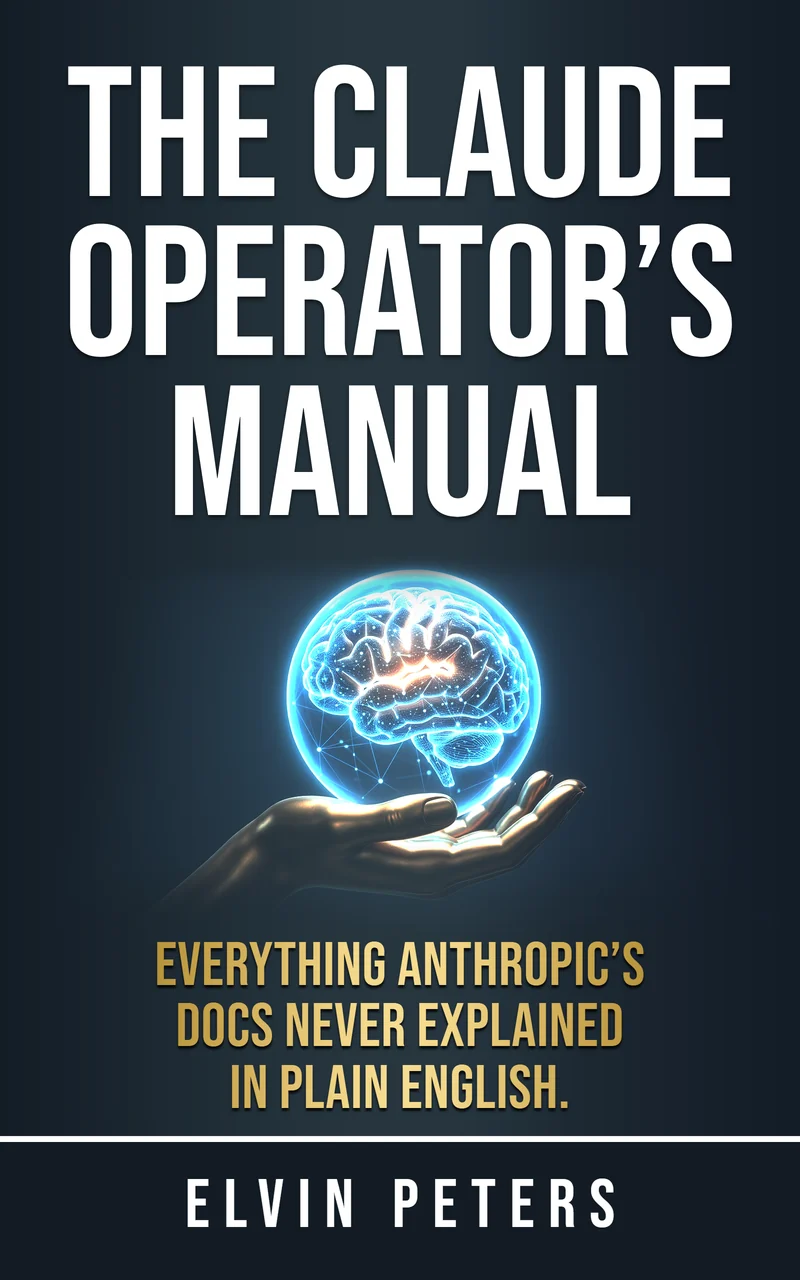
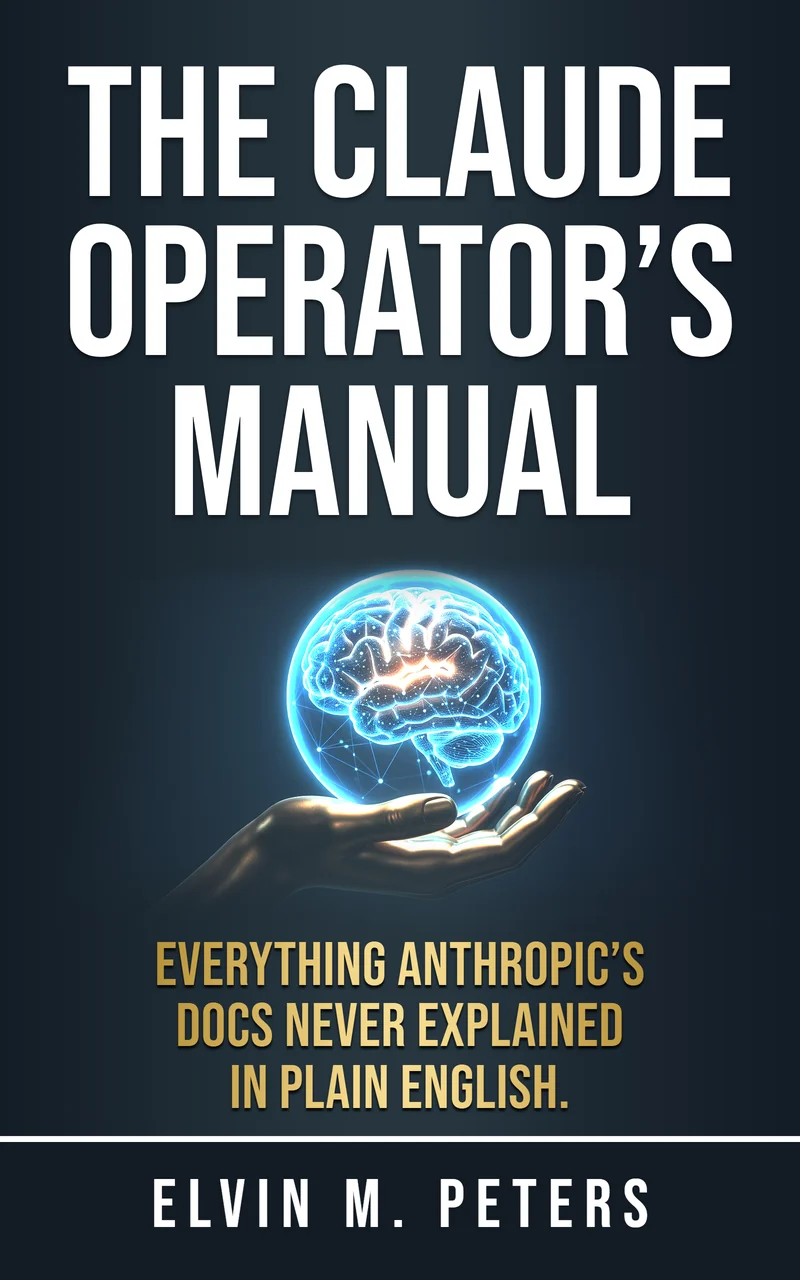
Free: approved cover alt text on the 13 booklet covers, byline Elvin M. Peters (#535)
cover_alt in content/free/<slug>.json for the 13 #488 gate 3 guides, word for
word from COPYWRITER MAIN's approved COPY.md (lines 1 and 2 take "Elvin M.
Peters" per that file's one-byline note). claude-manual and content-machine
covers + share images re-rendered from the gate 2/3 plate with the byline
ELVIN M. PETERS, so all 13 match. Built pages rebuilt.

Gates: build 0, verify.js GREEN (123 pages), verify_visual GREEN (56 page-widths).

Changed region(s): [[0.4062, 0.9062, 0.8125, 0.9688], [0.1875, 0.9062, 0.375, 0.9688]]

diff --git a/free/claude-manual/index.html b/free/claude-manual/index.html
@@ -96,7 +96,7 @@ h1{font-family:var(--serif);font-weight:600;font-size:clamp(34px,6vw,58px);line-
 </div>
 </div>
 </div>
-<div class="shot"><img src="/img/magnets/claude-manual.webp" alt="Cover of The Claude Operator's Manual by Elvin Peters" width="800" height="1280" fetchpriority="high"></div>
+<div class="shot"><img src="/img/magnets/claude-manual.webp" alt="Cover of The Claude Operator's Manual by Elvin M. Peters" width="800" height="1280" fetchpriority="high"></div>
 <div class="more">
 <ul class="blist"><li>Open a new chat and have Claude already know your role, your voice and your reference files, because a Project holds them for you.</li><li>Turn the job you keep re-explaining into a Skill that Claude picks up whenever you ask for that task in plain words.</li><li>Connect Claude to the tools your work lives in, and learn enough of how it works, Claude Code included, to stop being surprised by it.</li></ul>
 <div class="byline"><img src="/img/headshot.jpg" alt="Elvin Peters" width="48" height="48" loading="lazy"><span>From Elvin M. Peters, who wrote <em>The Artificial Advantage</em> after a decade in marketing and $40M+ in profitable ad spend.</span></div>

diff --git a/free/content-machine/index.html b/free/content-machine/index.html
@@ -96,7 +96,7 @@ h1{font-family:var(--serif);font-weight:600;font-size:clamp(34px,6vw,58px);line-
 </div>
 </div>
 </div>
-<div class="shot"><img src="/img/magnets/content-machine.webp" alt="Cover of The Content Machine by Elvin Peters" width="800" height="1280" fetchpriority="high"></div>
+<div class="shot"><img src="/img/magnets/content-machine.webp" alt="Cover of The Content Machine by Elvin M. Peters" width="800" height="1280" fetchpriority="high"></div>
 <div class="more">
 <ul class="blist"><li>Catch the sameness before your readers do, with a counting check that found 200 of my 200 titles opening with "The".</li><li>Build the five components once (the brief, the rotation, the voice rules, the gate and the queue), then keep it running in thirty minutes a week.</li><li>Let a scoring gate turn down weak drafts before you read them, so only work that clears your bar goes out under your name.</li></ul>
 <div class="byline"><img src="/img/headshot.jpg" alt="Elvin Peters" width="48" height="48" loading="lazy"><span>From Elvin M. Peters, who wrote <em>The Artificial Advantage</em> after a decade in marketing and $40M+ in profitable ad spend.</span></div>

diff --git a/free/anti-hallucination/index.html b/free/anti-hallucination/index.html
@@ -70,7 +70,7 @@ h1{font-family:var(--serif);font-weight:600;font-size:var(--fs-h1);line-height:v
 </div>
 <div class="mcard" id="card">
 <div class="form-in">
-<img class="mcover" src="/img/magnets/anti-hallucination.webp" alt="Tell Me the Truth: The Anti-Hallucination Field Guide cover" width="800" height="1280">
+<img class="mcover" src="/img/magnets/anti-hallucination.webp" alt="Cover of Tell Me the Truth by Elvin M. Peters" width="800" height="1280">
 <h2>Get it free</h2>
 <div class="sub">Enter your email and it is yours. No spam, unsubscribe anytime.</div>
 <form id="f" novalidate>

diff --git a/free/ai-operating-system/index.html b/free/ai-operating-system/index.html
@@ -70,7 +70,7 @@ h1{font-family:var(--serif);font-weight:600;font-size:var(--fs-h1);line-height:v
 </div>
 <div class="mcard" id="card">
 <div class="form-in">
-<img class="mcover" src="/img/magnets/ai-operating-system.webp" alt="Your 30-Minutes-a-Week AI Operating System cover" width="800" height="1280">
+<img class="mcover" src="/img/magnets/ai-operating-system.webp" alt="Cover of Stay Ahead by Elvin M. Peters" width="800" height="1280">
 <h2>Get it free</h2>
 <div class="sub">Enter your email and it is yours. No spam, unsubscribe anytime.</div>
 <form id="f" novalidate>

diff --git a/free/context-playbook/index.html b/free/context-playbook/index.html
@@ -70,7 +70,7 @@ h1{font-family:var(--serif);font-weight:600;font-size:var(--fs-h1);line-height:v
 </div>
 <div class="mcard" id="card">
 <div class="form-in">
-<img class="mcover" src="/img/magnets/context-playbook.webp" alt="Feed It Your World: The Context Playbook cover" width="800" height="1280">
+<img class="mcover" src="/img/magnets/context-playbook.webp" alt="Cover of Feed It Your World by Elvin M. Peters" width="800" height="1280">
 <h2>Get it free</h2>
 <div class="sub">Enter your email and it is yours. No spam, unsubscribe anytime.</div>
 <form id="f" novalidate>

diff --git a/free/email-meetings/index.html b/free/email-meetings/index.html
@@ -70,7 +70,7 @@ h1{font-family:var(--serif);font-weight:600;font-size:var(--fs-h1);line-height:v
 </div>
 <div class="mcard" id="card">
 <div class="form-in">
-<img class="mcover" src="/img/magnets/email-meetings.webp" alt="The Meeting and Email Machine cover" width="800" height="1280">
+<img class="mcover" src="/img/magnets/email-meetings.webp" alt="Cover of Inbox Zero, Meetings Handled. By Elvin M. Peters." width="800" height="1280">
 <h2>Get it free</h2>
 <div class="sub">Enter your email and it is yours. No spam, unsubscribe anytime.</div>
 <form id="f" novalidate>

diff --git a/free/slides-docs-images/index.html b/free/slides-docs-images/index.html
@@ -70,7 +70,7 @@ h1{font-family:var(--serif);font-weight:600;font-size:var(--fs-h1);line-height:v
 </div>
 <div class="mcard" id="card">
 <div class="form-in">
-<img class="mcover" src="/img/magnets/slides-docs-images.webp" alt="AI for Slides, Docs and Images cover" width="800" height="1280">
+<img class="mcover" src="/img/magnets/slides-docs-images.webp" alt="Cover of Make It Look Good by Elvin M. Peters" width="800" height="1280">
 <h2>Get it free</h2>
 <div class="sub">Enter your email and it is yours. No spam, unsubscribe anytime.</div>
 <form id="f" novalidate>

diff --git a/free/ai-assistant/index.html b/free/ai-assistant/index.html
@@ -70,7 +70,7 @@ h1{font-family:var(--serif);font-weight:600;font-size:var(--fs-h1);line-height:v
 </div>
 <div class="mcard" id="card">
 <div class="form-in">
-<img class="mcover" src="/img/magnets/ai-assistant.webp" alt="Build Your Own AI Assistant (No Code) cover" width="800" height="1280">
+<img class="mcover" src="/img/magnets/ai-assistant.webp" alt="Cover of Your Own AI Assistant by Elvin M. Peters" width="800" height="1280">
 <h2>Get it free</h2>
 <div class="sub">Enter your email and it is yours. No spam, unsubscribe anytime.</div>
 <form id="f" novalidate>

diff --git a/free/automation-kit/index.html b/free/automation-kit/index.html
@@ -70,7 +70,7 @@ h1{font-family:var(--serif);font-weight:600;font-size:var(--fs-h1);line-height:v
 </div>
 <div class="mcard" id="card">
 <div class="form-in">
-<img class="mcover" src="/img/magnets/automation-kit.webp" alt="The AI Automation Starter Kit cover" width="800" height="1280">
+<img class="mcover" src="/img/magnets/automation-kit.webp" alt="Cover of Set It and Forget It by Elvin M. Peters" width="800" height="1280">
 <h2>Get it free</h2>
 <div class="sub">Enter your email and it is yours. No spam, unsubscribe anytime.</div>
 <form id="f" novalidate>

diff --git a/free/50-prompts/index.html b/free/50-prompts/index.html
@@ -70,7 +70,7 @@ h1{font-family:var(--serif);font-weight:600;font-size:var(--fs-h1);line-height:v
 </div>
 <div class="mcard" id="card">
 <div class="form-in">
-<img class="mcover" src="/img/magnets/50-prompts.webp" alt="50 of the Best AI Prompts cover" width="800" height="1280">
+<img class="mcover" src="/img/magnets/50-prompts.webp" alt="Cover of 50 Best AI Prompts by Elvin M. Peters" width="800" height="1280">
 <h2>Get it free</h2>
 <div class="sub">Enter your email and it is yours. No spam, unsubscribe anytime.</div>
 <form id="f" novalidate>

diff --git a/free/ai-security/index.html b/free/ai-security/index.html
@@ -70,7 +70,7 @@ h1{font-family:var(--serif);font-weight:600;font-size:var(--fs-h1);line-height:v
 </div>
 <div class="mcard" id="card">
 <div class="form-in">
-<img class="mcover" src="/img/magnets/ai-security.webp" alt="What Not to Put Into AI cover" width="800" height="1280">
+<img class="mcover" src="/img/magnets/ai-security.webp" alt="Cover of What Not to Type by Elvin M. Peters" width="800" height="1280">
 <h2>Get it free</h2>
 <div class="sub">Enter your email and it is yours. No spam, unsubscribe anytime.</div>
 <form id="f" novalidate>

diff --git a/free/cost-roi/index.html b/free/cost-roi/index.html
@@ -70,7 +70,7 @@ h1{font-family:var(--serif);font-weight:600;font-size:var(--fs-h1);line-height:v
 </div>
 <div class="mcard" id="card">
 <div class="form-in">
-<img class="mcover" src="/img/magnets/cost-roi.webp" alt="The AI Cost and ROI Playbook cover" width="800" height="1280">
+<img class="mcover" src="/img/magnets/cost-roi.webp" alt="Cover of Is It Worth It? by Elvin M. Peters" width="800" height="1280">
 <h2>Get it free</h2>
 <div class="sub">Enter your email and it is yours. No spam, unsubscribe anytime.</div>
 <form id="f" novalidate>
